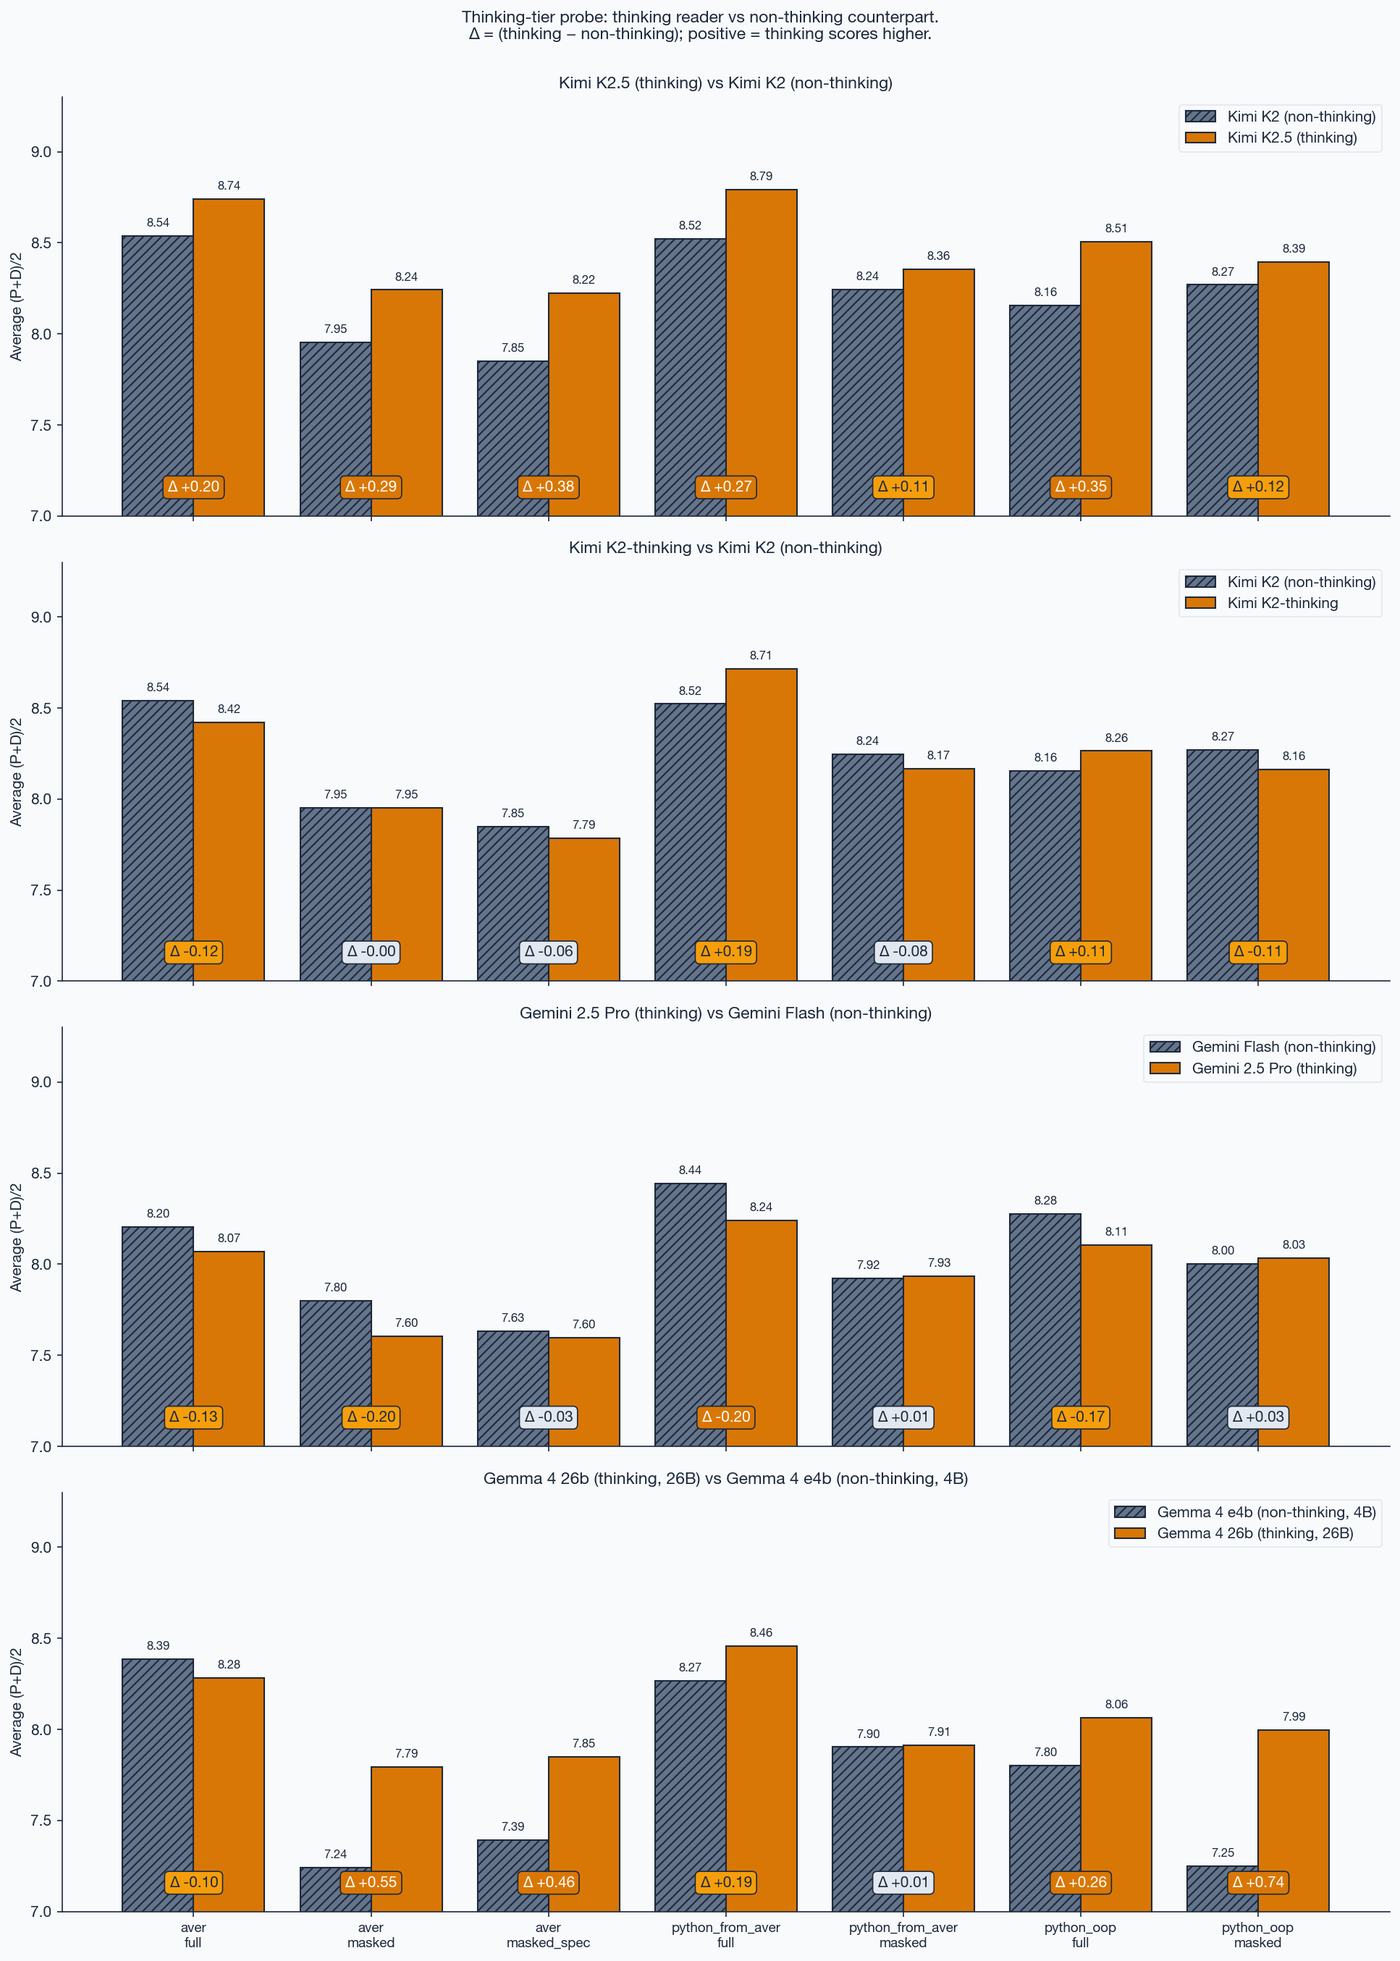
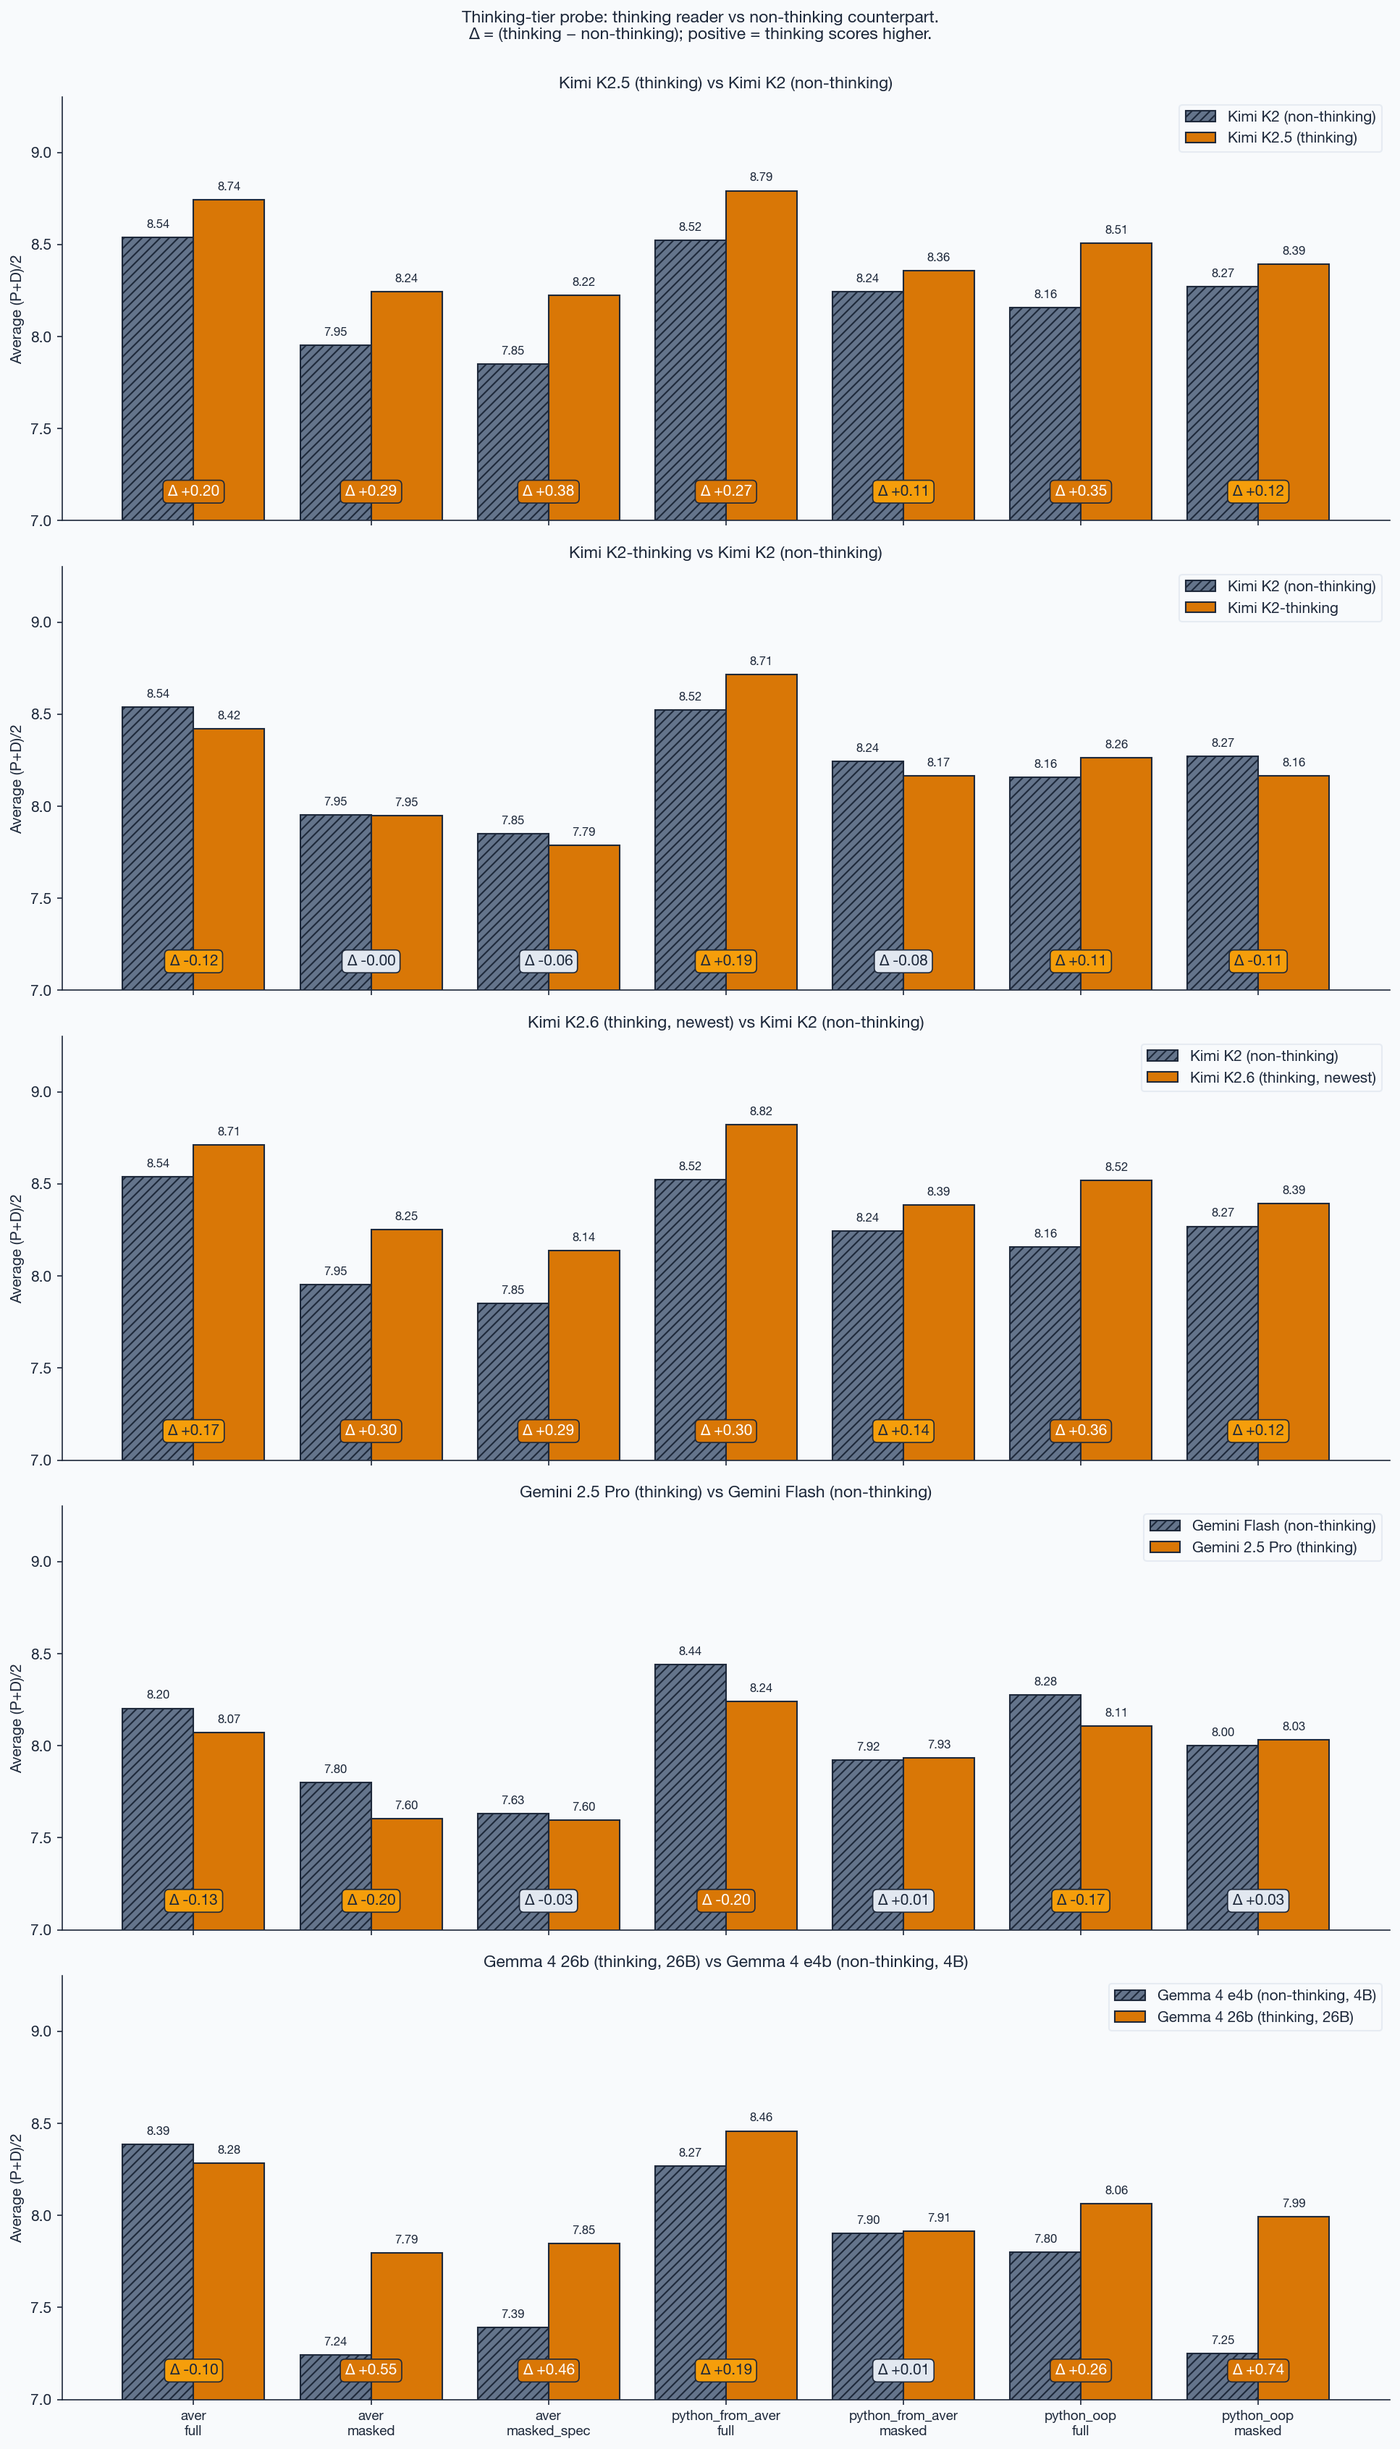
Add K2.6 as 5th thinking-tier probe (pair 5 in plot, finding #7 entry)
thinking_probe.png now shows 5 pairs:
  1. K2 → K2.5            (generation + thinking, confounded)
  2. K2 → K2-thinking     (pure thinking flag — clean control, Δ ≈ 0)
  3. K2 → K2.6            (newest + coding-tune + thinking, confounded) NEW
  4. Gemini Flash → Pro   (thinking + tier-up, biggest lifts)
  5. Gemma e4b → 26b      (thinking + 6.5× size, aver/full saturates)

K2.6 deltas vs K2-0905 on 18 matched prompts:
  aver/full +0.17, aver/masked +0.30, aver/masked_spec +0.29,
  pfa/full +0.30, pfa/masked +0.14, oop/full +0.36, oop/masked +0.12

Virtually identical profile to K2 → K2.5 (+0.11 to +0.38 there).
K2.6 ≈ K2.5 at the same-generation tier. Coding-agent tuning (K2.6's
advertised strength) does not affect diff-intent-recovery — that
capability lives elsewhere. Small but real data point: 'newer coding
model' does not automatically mean 'better diff review'.

README updates:
- TL;DR: ~17k → ~19k judgments; probe list now includes K2.6
- Methodology: four → five probes
- Results section: new 'Pair 5 — K2-0905 → K2.6' subsection with table
- Finding #7: new K2.6 bullet
- Status: slice count 1,422 → 1,548; judgment count 17,064 → 18,576
- Synthesis: 'five probes together' with 'coding-agent tuning flat' line

diff --git a/scripts/plot_judge_bias.py b/scripts/plot_judge_bias.py
@@ -848,6 +848,8 @@ def thinking_probe(out_path: Path) -> None:
          "Kimi K2.5 (thinking)",    "results/merged/kimi2.5.jsonl"),
         ("Kimi K2 (non-thinking)", "results/merged/kimi.jsonl",
          "Kimi K2-thinking",        "results/merged/kimi-thinking.jsonl"),
+        ("Kimi K2 (non-thinking)", "results/merged/kimi.jsonl",
+         "Kimi K2.6 (thinking, newest)", "results/merged/kimi2.6.jsonl"),
         ("Gemini Flash (non-thinking)", "results/merged/gemini.jsonl",
          "Gemini 2.5 Pro (thinking)",   "results/merged/gemini-pro.jsonl"),
         ("Gemma 4 e4b (non-thinking, 4B)", "results/merged/gemma.jsonl",

diff --git a/README.md b/README.md
@@ -6,7 +6,7 @@
 >
 > ⚠ **No priming, no language context.** Readers receive the raw unified diff only — **no syntax guide, no language description, no system prompt explaining what Aver is, no few-shot examples, no grammar reference**. The reader must reconstruct intent entirely from the artifact itself. Python readers get the same treatment (no special hint that it's Python). This is deliberate: we're testing whether the artifact carries legibility on its own, not whether a primed LLM can parse it.
 >
-> **TL;DR:** Empirical benchmark of how much change-level author intent an LLM reviewer can reconstruct from a unified diff. 6 non-thinking reader LLMs across 5 model sources (Anthropic / OpenAI / Google / Moonshot / Google-OSS Gemma local) × 6 cross-vendor judges × 18 refactor prompts × 4 programs × 3 language variants (Aver, Aver-in-Python, idiomatic Python) × 3 views (full / masked / verify-preserving), plus 4 separate thinking-tier probes (Kimi K2.5, Kimi K2-thinking, Gemini 2.5 Pro, Gemma 4 26b). ~17,000 judgments, 100% judge coverage verified.
+> **TL;DR:** Empirical benchmark of how much change-level author intent an LLM reviewer can reconstruct from a unified diff. 6 non-thinking reader LLMs across 5 model sources (Anthropic / OpenAI / Google / Moonshot / Google-OSS Gemma local) × 6 cross-vendor judges × 18 refactor prompts × 4 programs × 3 language variants (Aver, Aver-in-Python, idiomatic Python) × 3 views (full / masked / verify-preserving), plus 5 separate thinking-tier probes (Kimi K2.5, Kimi K2-thinking, Kimi K2.6, Gemini 2.5 Pro, Gemma 4 26b). ~19,000 judgments, 100% judge coverage verified.
 
 ![ranking — 6 non-thinking readers](results/plots/ranking_all_readers_ci.png)
 
@@ -28,7 +28,7 @@ Concrete example:
 program + prompt → agent refactors → diff → reviewer LLM guesses → 6 judges score
 ```
 
-Repeat for **18 prompts × 4 programs × 3 language variants × 6 non-thinking reader LLMs × 3 views ≈ 918 slices** (plus 504 across 4 thinking-tier probes), each scored by the 6-judge ensemble. Higher P+D = reviewer reconstructed intent more accurately.
+Repeat for **18 prompts × 4 programs × 3 language variants × 6 non-thinking reader LLMs × 3 views ≈ 918 slices** (plus 630 across 5 thinking-tier probes), each scored by the 6-judge ensemble. Higher P+D = reviewer reconstructed intent more accurately.
 
 **The three language variants** (same program, different surface):
 - `aver` — the original.
@@ -165,7 +165,7 @@ Moonshot publishes **`kimi-k2-0905-preview`** (non-thinking) and **`kimi-k2-thin
 
 This methodology transfers: for any benchmark claiming "X improves with thinking," look for a same-snapshot same-weights thinking-flag-flipped pair. If the vendor doesn't publish one, the claim mixes thinking with generation — which the K2.5 and Gemini Pro-vs-Flash comparisons in this repo both do.
 
-**Separately**, we ran **four thinking-tier probes** (Kimi K2.5, Kimi K2-thinking, Gemini 2.5 Pro, Gemma 4 26b), each paired with its closest non-thinking counterpart. Judges stay non-thinking in every probe. See "Thinking-tier probe" section in Results for per-pair tables and Finding #7 for the interpretation. Main ensemble and headline findings stay non-thinking.
+**Separately**, we ran **five thinking-tier probes** (Kimi K2.5, Kimi K2-thinking, Kimi K2.6, Gemini 2.5 Pro, Gemma 4 26b), each paired with its closest non-thinking counterpart. Judges stay non-thinking in every probe. See "Thinking-tier probe" section in Results for per-pair tables and Finding #7 for the interpretation. Main ensemble and headline findings stay non-thinking.
 
 Real-world PR review bots, IDE assistants (Cursor, Claude Code, Copilot), CI checks — all use non-thinking models for latency (sub-second response). Benchmark matches that tier. A full "reasoning-tier benchmark" (all readers in thinking mode) is a separate open direction and estimated at ~$1,500+ in API costs.
 
@@ -296,11 +296,11 @@ The pattern replicates across every reader: `aver/masked` is the lowest-scoring 
 
 Aver's payment_ops loss concentrates on architectural refactors — where both Aver and idiomatic OOP Python struggle (8.19 and 7.61), and only heavy-doc `python_from_aver` survives (8.65). On additive prompts the gap shrinks from 4× noise to inside-noise.
 
-### Thinking-tier probe — four reader pairs
+### Thinking-tier probe — five reader pairs
 
 ![thinking probe](results/plots/thinking_probe.png)
 
-Four thinking readers outside the main non-thinking ensemble, each paired with its closest non-thinking counterpart (same vendor where possible). Judges stay non-thinking (same 6-judge ensemble as main) — what we measure is *reader-side thinking*, with judges held constant. All pairs N=18 matched prompts, 100% 6-judge coverage. See also Finding #7 for the interpretation.
+Five thinking readers outside the main non-thinking ensemble, each paired with its closest non-thinking counterpart (same vendor where possible). Judges stay non-thinking (same 6-judge ensemble as main) — what we measure is *reader-side thinking*, with judges held constant. All pairs N=18 matched prompts, 100% 6-judge coverage. See also Finding #7 for the interpretation.
 
 **Pair 1 — Kimi K2-0905 (non-thinking) → K2.5 (thinking + newer generation)**
 
@@ -360,21 +360,38 @@ Biggest lifts of any pair (+0.17 to +0.85). But Flash → Pro is a whole-tier ju
 
 Large lifts on masked cells (+0.46 to +0.74); aver/full *goes down* (saturation); pfa/masked essentially unchanged. Size (4B → 26B) and thinking are confounded.
 
-**Taking the four probes together:**
+**Pair 5 — Kimi K2-0905 (non-thinking) → Kimi K2.6 (thinking, newest, coding-oriented)**
+
+K2.6 is the freshest Moonshot coding-oriented model, released 2026-04-13. Added same-day as public availability as a currency check. Thinking-default, so same confound profile as K2.5 (newer generation + thinking).
+
+| view | K2 | K2.6 | Δ |
+|---|---:|---:|---:|
+| aver / full | 8.54 | **8.71** | +0.17 |
+| aver / masked | 7.95 | **8.25** | +0.30 |
+| aver / masked_spec | 7.85 | 8.14 | +0.29 |
+| pfa / full | 8.52 | **8.82** | +0.30 |
+| pfa / masked | 8.24 | 8.39 | +0.14 |
+| oop / full | 8.16 | **8.52** | +0.36 |
+| oop / masked | 8.27 | 8.39 | +0.12 |
+
+Deltas virtually identical to K2 → K2.5 (+0.11–0.38 there, +0.12–0.36 here). **K2.6 ≈ K2.5 on diff-intent recovery.** Moonshot's advertised K2.6 improvements (multi-step planning, tool orchestration, agent workflows) do not surface on a single-call diff-to-intent task — they operate on capabilities this benchmark doesn't probe.
+
+**Taking the five probes together:**
 
 - Pure thinking (K2 → K2-thinking) = zero.
-- Thinking + generation (K2.5) = consistent +0.13 to +0.36.
+- Thinking + generation (K2.5 or K2.6) = consistent +0.11 to +0.38.
 - Thinking + tier-up (Gemini Pro) = biggest lifts (+0.17 to +0.85).
 - Thinking + 6.5× size (Gemma 26b) = big lifts on masked only; aver/full saturates.
+- Coding-agent tuning (K2.6 over K2.5) at the same tier = **flat** on this task.
 
-The thinking flag alone doesn't move the needle. What does is **capability tier** (generation, size, whole-tier model family). Finding #7 develops this interpretation.
+The thinking flag alone doesn't move the needle. What does is **capability tier** (generation, size, whole-tier model family). And even "coding-oriented tuning" at the same tier doesn't help on diff understanding — the capability being tuned lives elsewhere. Finding #7 develops this interpretation.
 
 Limits of these probes:
 - **Thinking judges would be a separate experiment.** Here judges stay non-thinking (same 6-judge ensemble as main). A full all-thinking ensemble (thinking readers + thinking judges) is estimated at ~$1,500+ and left as future work.
 - **Only one pair (K2 vs K2-thinking) cleanly isolates the thinking flag.** The others mix thinking with generation, tier, or size.
 - **Outside of K2-thinking, no vendor currently publishes a same-snapshot thinking-flag-flipped pair** for Anthropic, OpenAI o-series, or Google Gemini — so extending this clean comparison to more vendors requires vendor support.
 
-Thinking reader data: `results/merged/{kimi2.5,kimi-thinking,gemini-pro,gemma26b}.jsonl` (4 × 126 slices, 100% 6-judge coverage each).
+Thinking reader data: `results/merged/{kimi2.5,kimi-thinking,kimi2.6,gemini-pro,gemma26b}.jsonl` (5 × 126 slices, 100% 6-judge coverage each).
 
 ### Verify-preserving ablation (`masked_spec` vs `masked`)
 
@@ -396,10 +413,11 @@ Read these as statements about the specific setup described above — 6 reader f
 
 6. **Per-item inter-judge agreement is low and got lower with the 6th judge** (α_ord pooled across 6 readers × 918 items: **P-axis 0.42, D-axis 0.15** with Kimi added; previously 0.54 / 0.28 on the 5-judge panel). Both well below the 0.67 "tentative" threshold. Pairwise Spearman ρ̄ ≈ 0.52 on P. Kimi judge correlates ~0.38–0.41 with the others on P-axis (vs 0.65–0.73 within the Claude family), so adding it diluted the ensemble's internal consistency — in exchange for true cross-vendor diversity (panel now spans Anthropic / OpenAI / Moonshot rather than 3 Anthropic + 2 OpenAI). **Interval α is higher and rises to 0.53 on P-axis / 0.37 on D-axis** — judges rank items consistently even when absolute scores drift. Judges still agree on *ranking* (Spearman stays positive, cell means stable within noise floor), but fine-grained per-slice claims aren't trustworthy. Noteworthy: Gemma reader produces the highest per-reader α_int (P=0.67, D=0.56) — its terser, more declarative guesses are easier for judges to score consistently. Human raters on a stratified subsample remain the single cleanest remaining improvement.
 
-7. **Capability tier closes the Aver/masked gap; pure thinking flag alone does not.** Four thinking-tier probes, only one of which cleanly isolates the thinking flag from generation/size:
+7. **Capability tier closes the Aver/masked gap; pure thinking flag alone does not.** Five thinking-tier probes, only one of which cleanly isolates the thinking flag from generation/size:
 
    - **K2-0905 (non-thinking) → K2-thinking (same snapshot, thinking flag flipped only)** — Moonshot publishes both as serving modes of the same underlying model, a rare opportunity for a pure thinking-flag control. Deltas on all 7 (lang, view) cells, N=18 matched prompts: aver/full **−0.12**, aver/masked **0.00** (exactly), aver/masked_spec **−0.06**, pfa/full **+0.19**, pfa/masked **−0.08**, oop/full **+0.11**, oop/masked **−0.11**. **All inside the 0.11 noise floor. Pure thinking flip ≈ zero on every metric.**
    - **K2-0905 → K2.5 (newer generation, also thinking)** — same matched-prompt comparison: +0.20, +0.29, +0.38, +0.27, +0.11, +0.35, +0.12. **Consistent +0.11–0.38 lift across every cell** — but generation and thinking are confounded.
+   - **K2-0905 → K2.6 (newest generation, thinking, coding-oriented)** — +0.17, +0.30, +0.29, +0.30, +0.14, +0.36, +0.12. Virtually identical profile to K2.5. **K2.6 ≈ K2.5 on diff-intent recovery** — coding-agent tuning doesn't change this task's capability ceiling at the same generation tier.
    - **Gemini 2.5 Flash (non-thinking) → Gemini 2.5 Pro (thinking + tier-up)**, N=18: aver/full +0.52, aver/masked +0.76, pfa/full +0.32, pfa/masked +0.58, oop/full +0.17, oop/masked +0.38. **Biggest lifts of any probe (+0.17 to +0.85)** — but Flash → Pro is a whole-tier jump, not a thinking flag flip.
    - **Gemma 4 e4b (4B non-thinking) → Gemma 26b (6.5× larger + thinking)**, N=18: aver/full **−0.10**, aver/masked **+0.55**, aver/masked_spec +0.46, pfa/full +0.19, pfa/masked **+0.01**, oop/full +0.26, oop/masked **+0.74**. Biggest lifts on masked cells (+0.46 to +0.74); aver/full goes *down* (saturation); pfa/masked lifts essentially zero.
 
@@ -503,7 +521,7 @@ results/merged/<reader>.jsonl                # canonical per-reader dataset (ded
 
 ## Status
 
-Dataset is complete for 6 non-thinking main-ensemble readers + 4 thinking-tier probes (v2 canonical rerun with post-fill validation): **1,422 slices × 6 judges × 2 axes = 17,064 judgments**, **100% judge coverage verified** via `scripts/coverage_check.py` on every reader. Breakdown: sonnet/gpt4.1/gemini/kimi = 162 slices each (pre-skip-fix); opus = 144; gemma + the 4 thinking probes (k2.5, k2-thinking, gemini-pro, gemma26b) = 126 each (skip-fix active). N=18 per `(lang, view)` cell on every reader; effective N=36 for pfa/oop masked on pre-skip-fix readers (pools duplicate runs). python_oop rows for the original 3 readers are v1 carried over (code was not touched by canonical rewrite — only aver + pfa were rerun); Kimi K2, Opus, Gemma, and all thinking probes were rerun for all three languages. Findings above are stable under the directly-measured 0.11 noise floor. PRs welcome to add languages, models, or programs.
+Dataset is complete for 6 non-thinking main-ensemble readers + 5 thinking-tier probes (v2 canonical rerun with post-fill validation): **1,548 slices × 6 judges × 2 axes = 18,576 judgments**, **100% judge coverage verified** via `scripts/coverage_check.py` on every reader. Breakdown: sonnet/gpt4.1/gemini/kimi = 162 slices each (pre-skip-fix); opus = 144; gemma + the 5 thinking probes (k2.5, k2-thinking, k2.6, gemini-pro, gemma26b) = 126 each (skip-fix active). N=18 per `(lang, view)` cell on every reader; effective N=36 for pfa/oop masked on pre-skip-fix readers (pools duplicate runs). python_oop rows for the original 3 readers are v1 carried over (code was not touched by canonical rewrite — only aver + pfa were rerun); Kimi K2, Opus, Gemma, and all thinking probes were rerun for all three languages. K2.6 added 2026-04-20 same day as public API availability. Findings above are stable under the directly-measured 0.11 noise floor. PRs welcome to add languages, models, or programs.
 
 ## Citation
 
